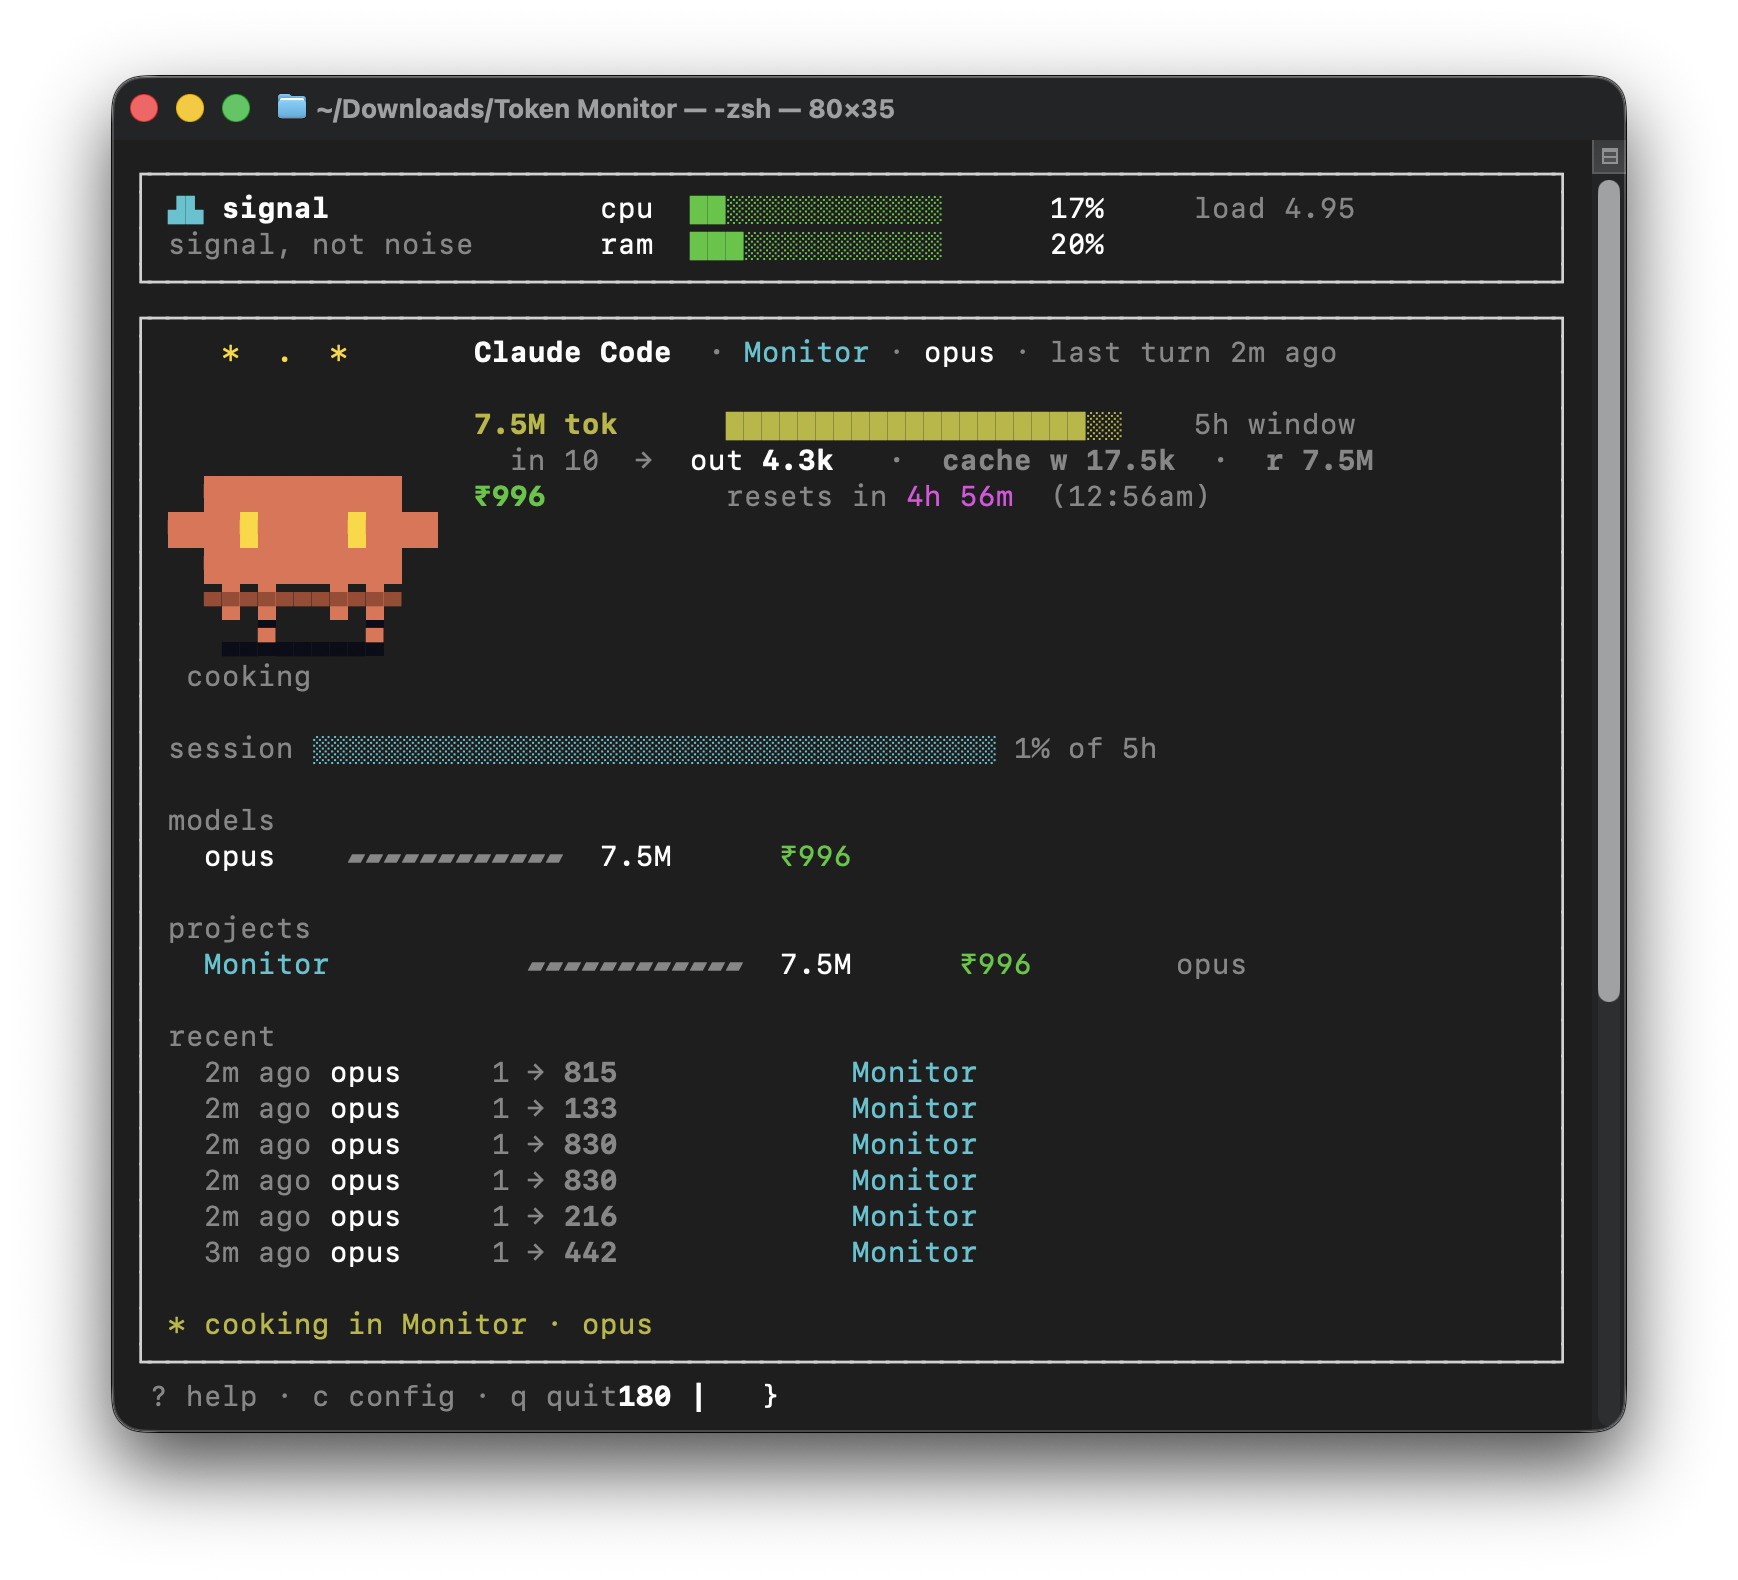
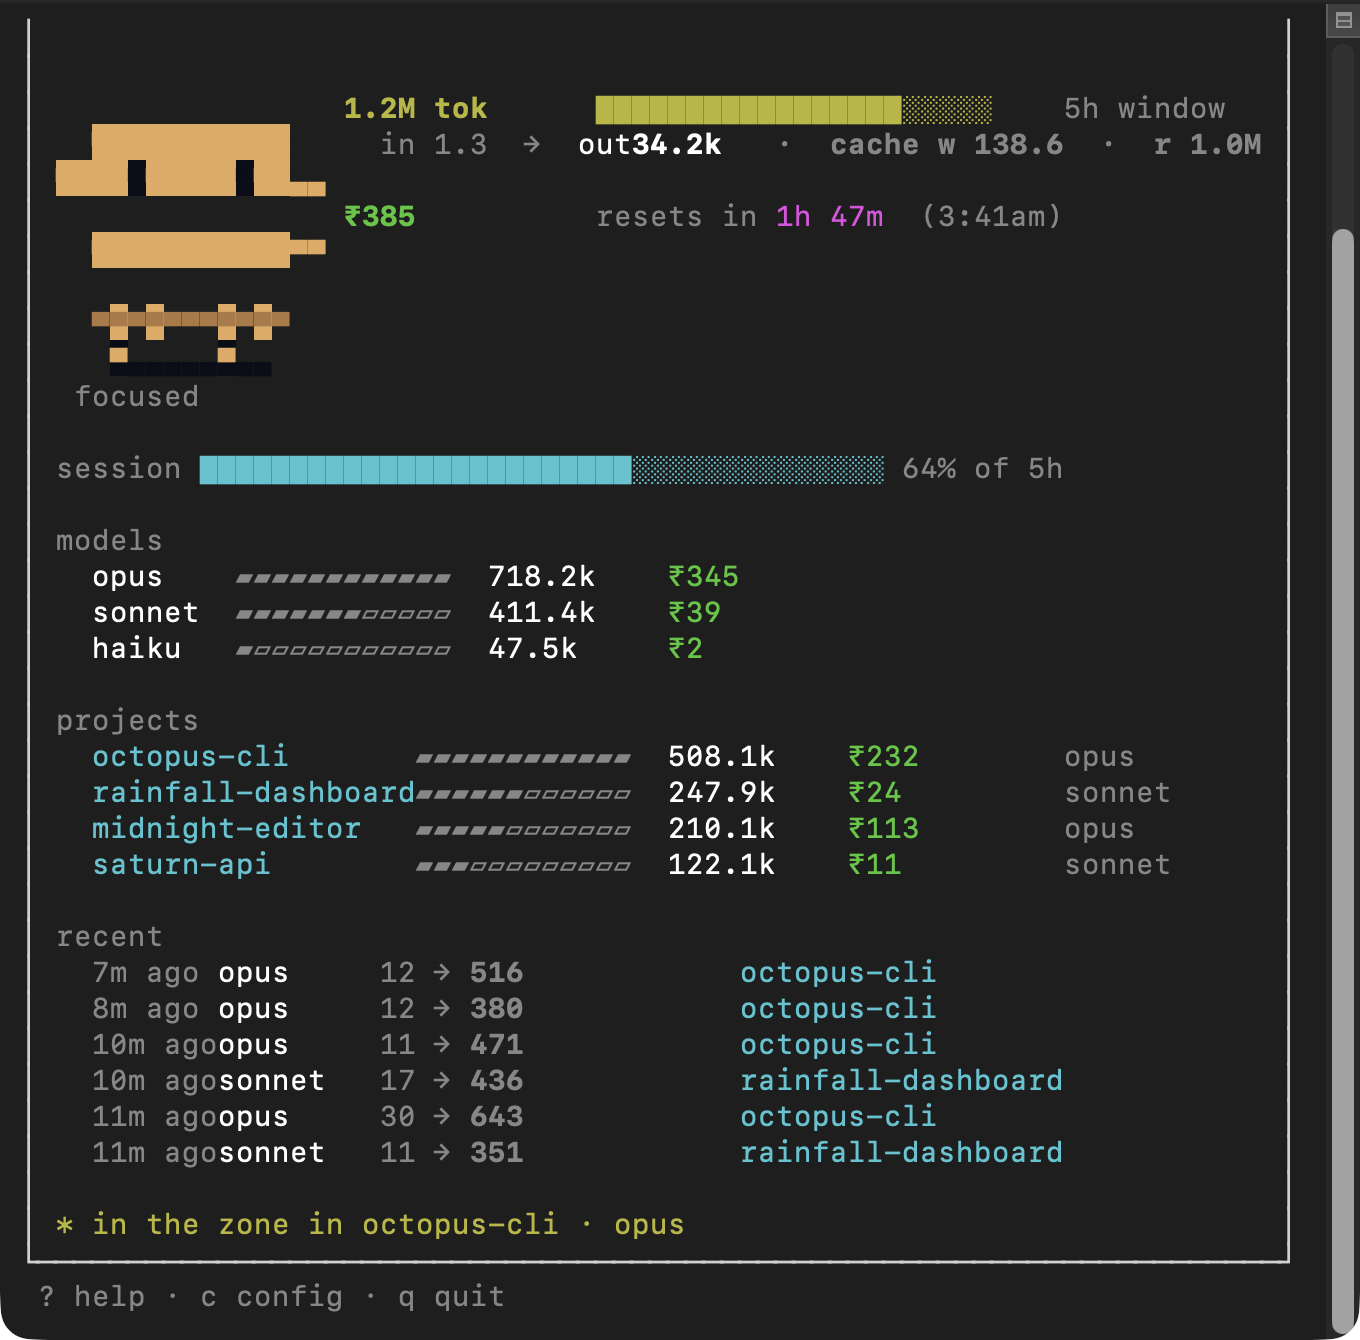
docs+demo: replace screenshots with synthetic-data captures, add SIGNAL_DEMO_PROCESSES
Both repo screenshots leaked real project names from the host they were
captured on. Replaced both with fully synthetic captures generated
against a temp $HOME populated with made-up project data
(octopus-cli, rainfall-dashboard, saturn-api, midnight-editor,
aurora-mobile, polaris-search, thunder-cache, willow-docs, birch-typer)
across nine sessions spanning Claude opus/sonnet/haiku and Codex
gpt-5-codex/o3/o4-mini.

The web tank screenshot needed one more thing — its 'Running Terminals'
widget shows live processes via pgrep+lsof, which would have leaked
whatever was actually running on the capture host. Added
SIGNAL_DEMO_PROCESSES env-var hook to Processes.ts: when set, the
daemon loads a JSON fixture instead of invoking pgrep. Strictly opt-in,
falls back to live detection on any read/parse error, and unlocks
deterministic captures for future marketing/test work.

serve.ts updated to route through the new detectAllCliInstances() so
the hook is honored — one wrapper call instead of two direct calls.

Social preview regenerated from the new web.png. All three screenshots
now show realistic but entirely fake data:
- terminal.png — 1.2M tok, ₹385, opus/sonnet/haiku, 4 demo projects
- web.png — full tank view with octopus-cli in the running terminals
- social-preview.png — 1280x640 derived from web.png

Tests + biome + tsc clean.

diff --git a/src/core/Processes.ts b/src/core/Processes.ts
@@ -1,4 +1,5 @@
 import { execFileSync } from 'node:child_process';
+import { readFileSync } from 'node:fs';
 import { basename } from 'node:path';
 import type { ProviderId } from './types';
 
@@ -140,7 +141,19 @@ export function detectCodexCliInstances(): ClaudeCliInstance[] {
 
 // ── Aggregate detector ────────────────────────────────────────────────────
 
-/** Detect all known coding-agent CLI processes, tagged by provider. */
+/** Detect all known coding-agent CLI processes, tagged by provider.
+ *  When SIGNAL_DEMO_PROCESSES points to a JSON file, returns that file's
+ *  contents verbatim instead of running pgrep. Useful for screenshots,
+ *  tests, and any context where a deterministic process list matters more
+ *  than what's actually running on the host. */
 export function detectAllCliInstances(): ClaudeCliInstance[] {
+  const demoFile = process.env.SIGNAL_DEMO_PROCESSES;
+  if (demoFile) {
+    try {
+      return JSON.parse(readFileSync(demoFile, 'utf-8'));
+    } catch {
+      // Bad fixture path / malformed JSON → fall through to live detection.
+    }
+  }
   return [...detectClaudeCliInstances(), ...detectCodexCliInstances()];
 }

diff --git a/src/ui/serve.ts b/src/ui/serve.ts
@@ -7,11 +7,7 @@ import { type ProviderSummary, aggregateProvider } from '../core/Aggregator';
 import { EventStore } from '../core/EventStore';
 import { HardwareSampler } from '../core/HardwareSampler';
 import { PollScheduler } from '../core/PollScheduler';
-import {
-  type ClaudeCliInstance,
-  detectClaudeCliInstances,
-  detectCodexCliInstances,
-} from '../core/Processes';
+import { type ClaudeCliInstance, detectAllCliInstances } from '../core/Processes';
 import { ProviderRegistry } from '../core/ProviderRegistry';
 import { loadConfig, writeDefaultConfig } from '../core/config';
 import type { ProviderId } from '../core/types';
@@ -125,10 +121,8 @@ export async function runServe(opts: ServeOptions = {}): Promise<void> {
     store.appendHwSample(hw);
 
     // Combined process list — Claude + Codex CLI instances.
-    const processes: ClaudeCliInstance[] = [
-      ...detectClaudeCliInstances(),
-      ...detectCodexCliInstances(),
-    ];
+    // (Routes through detectAllCliInstances so SIGNAL_DEMO_PROCESSES can stub.)
+    const processes: ClaudeCliInstance[] = detectAllCliInstances();
 
     return JSON.stringify({
       generatedAt: Date.now(),